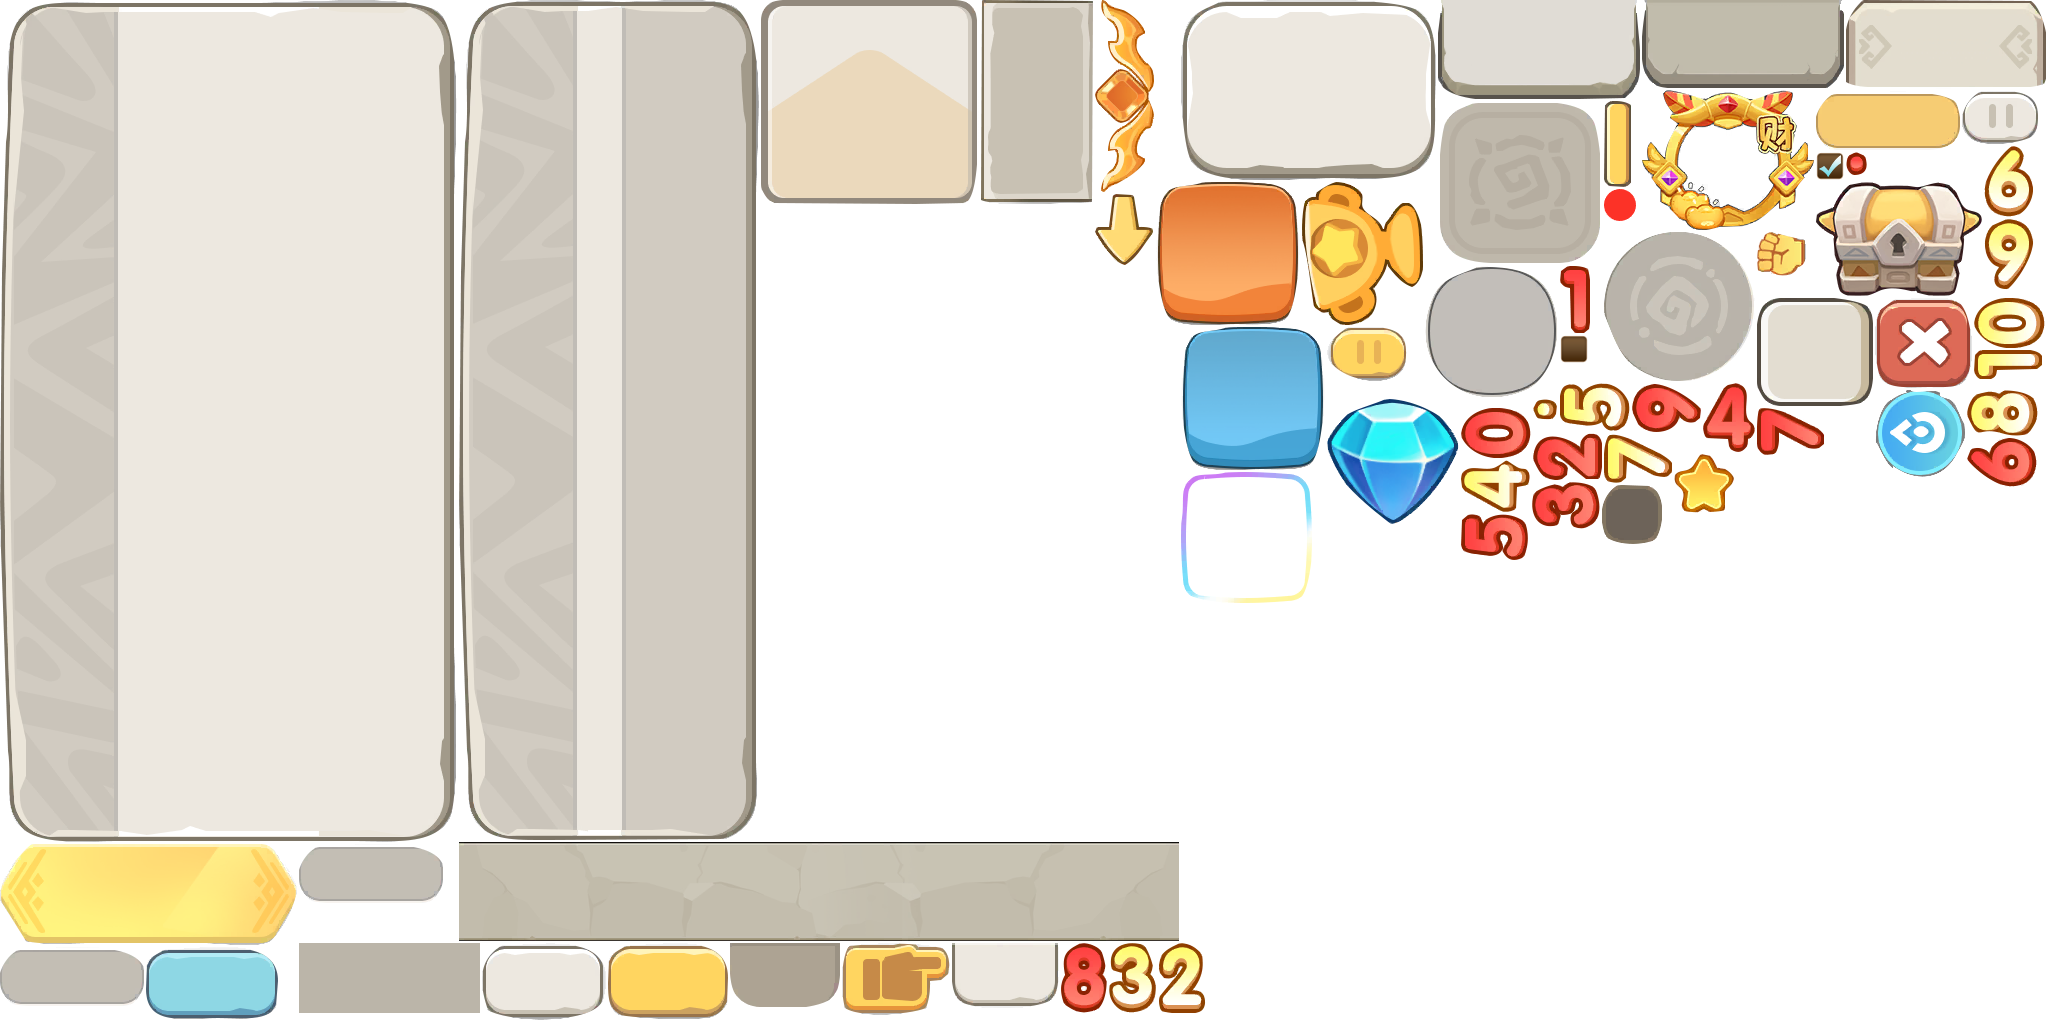
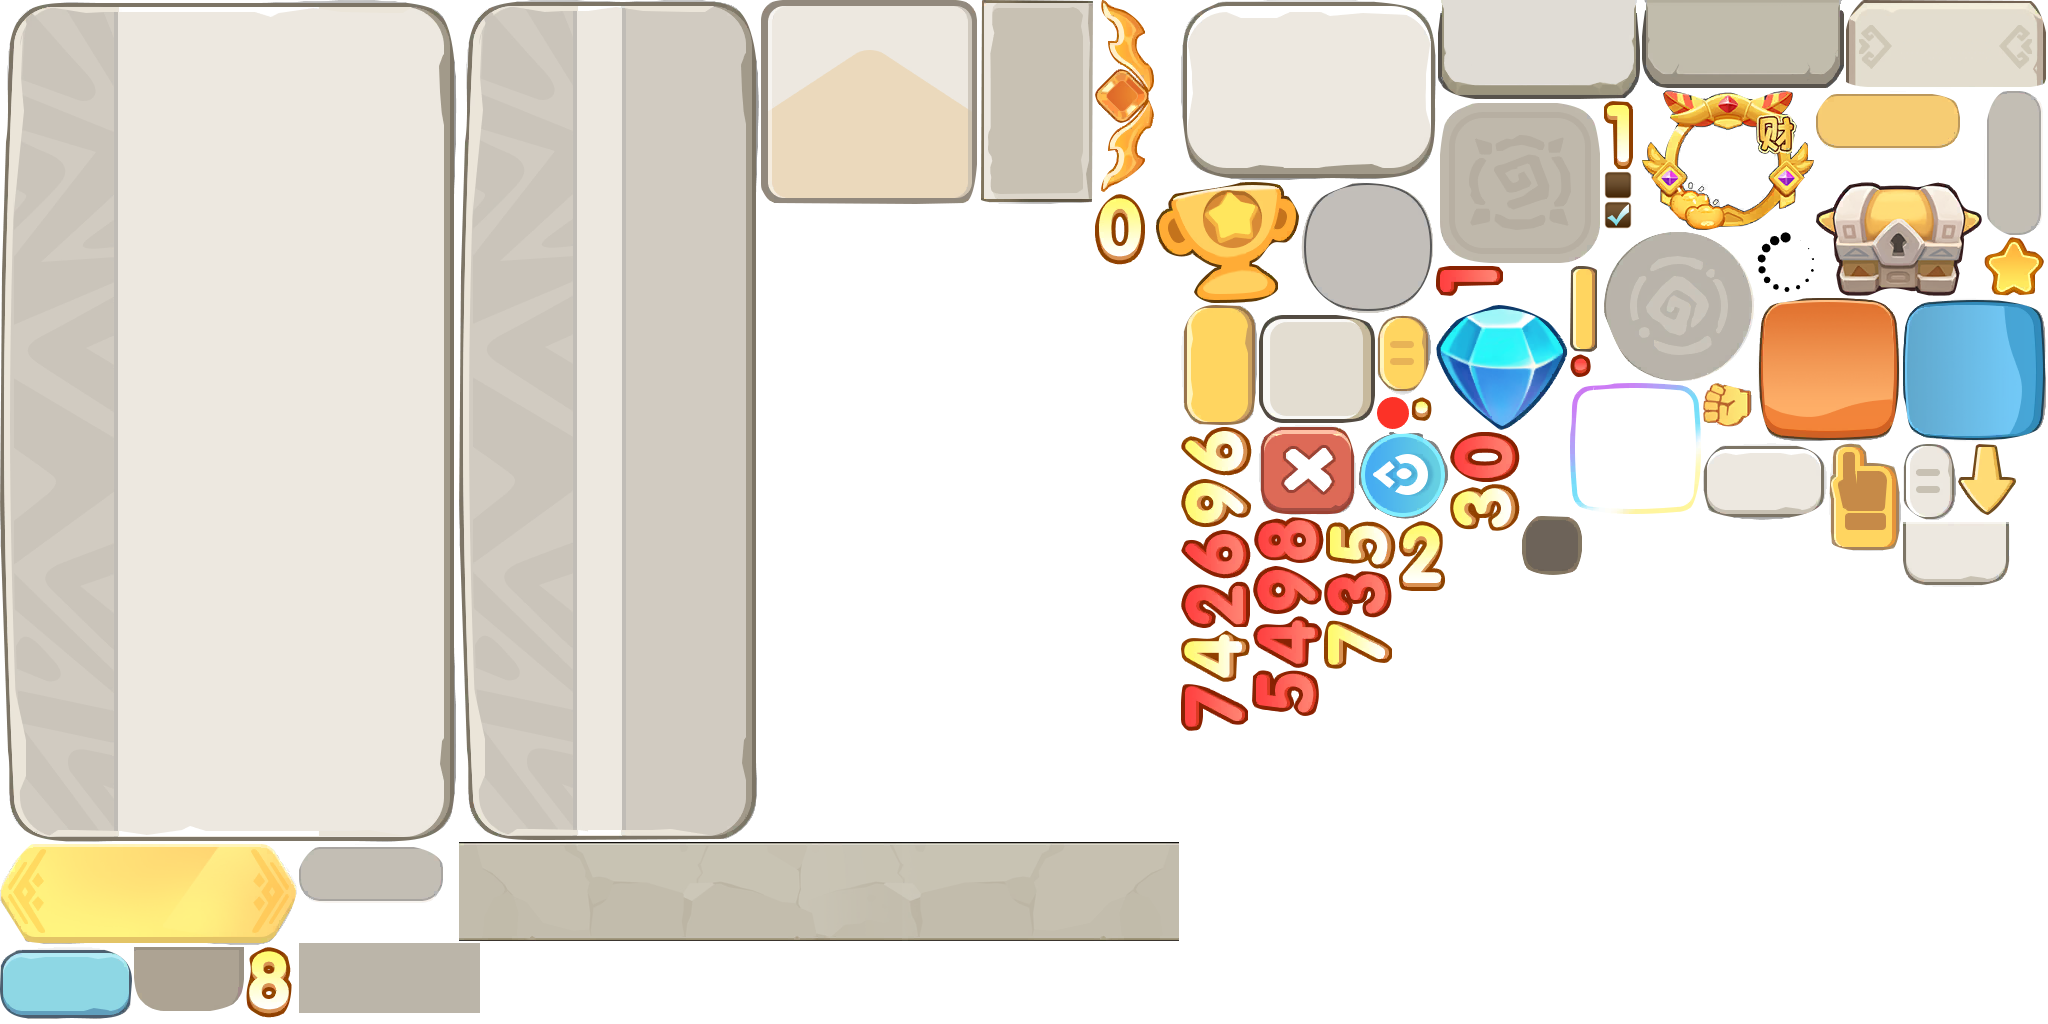
feat：加入全局loading界面

diff --git a/Unity/Assets/Scripts/Hotfix/UI/View/Common/ViewImpl/WinGlobalLoading.cs b/Unity/Assets/Scripts/Hotfix/UI/View/Common/ViewImpl/WinGlobalLoading.cs
@@ -1,0 +1,77 @@
+using FairyGUI;
+using FuFramework.UI.Runtime;
+
+// ReSharper disable once CheckNamespace 禁用命名空间检查
+namespace Hotfix.UI
+{
+    public partial class WinGlobalLoading : ViewBase
+    {
+         #region 界面基本属性(无特殊需求，可不做修改)
+ 
+         //@formatter:off
+         protected override UILayer Layer         => UILayer.Normal;   // 界面所属的层级。
+         protected override UITweenType TweenType => UITweenType.Fade; // 界面打开/关闭时的动画效果。
+         protected override bool IsFullScreen     => true;             // 是否是全屏界面。
+         public override bool PauseCoveredUI      => false;            // 显示时是否暂停被覆盖的界面。
+         //@formatter:on
+         
+         #endregion
+        
+        /// <summary>
+        /// 初始化
+        /// </summary>  
+        protected override void OnInit()
+        {
+            InitUIComp();
+            InitUIEvent();
+            InitEvent();
+            InitRedDot();
+        }
+
+        /// <summary>
+        /// 注册相关逻辑事件
+        /// </summary>
+        private void InitEvent()
+        {
+            // Example:Subscribe(XxxEventArgs.EventId, OnXxxEventHandler);
+        }
+
+        /// <summary>
+        /// 注册界面相关红点
+        /// </summary>
+        private void InitRedDot()
+        {
+            // Example: RedDotRegister.RegisterRedDot(this, RedDotKeys.BagItem, btnLogin, displayMode: CompRedDot.DisplayMode.Auto);
+        }
+        
+        /// <summary>
+        /// 界面打开
+        /// </summary>
+        protected override void OnOpen()
+        {
+            Refresh();
+        }
+        
+        /// <summary>
+        /// 界面关闭
+        /// </summary>
+        protected override void OnClose() { }
+
+        /// <summary>
+        /// 界面销毁
+        /// </summary>
+        protected override void OnDispose() { }
+
+        /// <summary>
+        /// 刷新界面
+        /// </summary>
+        private void Refresh()
+        {
+        	// TODO：刷新逻辑
+        }
+
+        #region 交互事件与ListItem渲染回调处理
+        
+        #endregion
+    }
+}

diff --git a/Unity/Assets/Scripts/Hotfix/UI/View/Common/ViewGen/WinGlobalLoading.Gen.cs b/Unity/Assets/Scripts/Hotfix/UI/View/Common/ViewGen/WinGlobalLoading.Gen.cs
@@ -1,0 +1,35 @@
+// <auto-generated>
+//	本代码由FGUI插件CSharpAPIGen自动生成. 切记不可手动更改!
+// </auto-generated>
+// ReSharper disable once CheckNamespace 禁用命名空间检查
+
+using FairyGUI;
+
+namespace Hotfix.UI
+{
+    public partial class WinGlobalLoading
+    {
+        public override string UIName => "WinGlobalLoading";      // 界面名称
+        public override string PackageName => "Common"; // 包名
+        
+		private Transition rotationAnim;
+
+        /// <summary>
+        /// 界面组件初始化
+        /// </summary>
+        private void InitUIComp()
+        {
+			rotationAnim = UIView.GetTransition("rotation");
+
+
+        }
+
+        /// <summary>
+        /// 界面可交互组件事件初始化
+        /// </summary>
+        private void InitUIEvent()
+        {
+
+        }
+    }
+}
